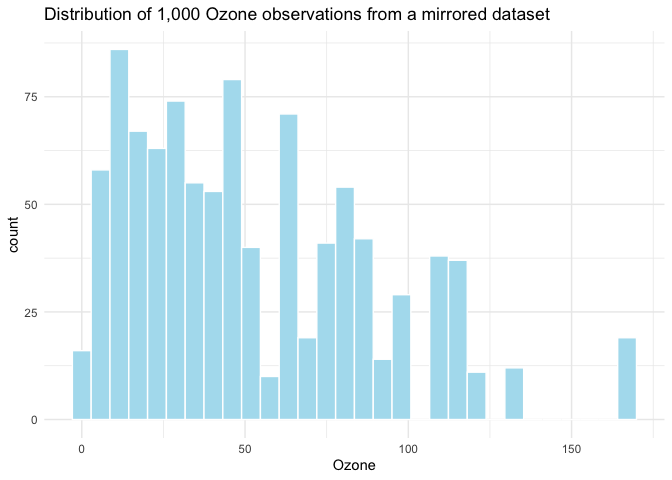
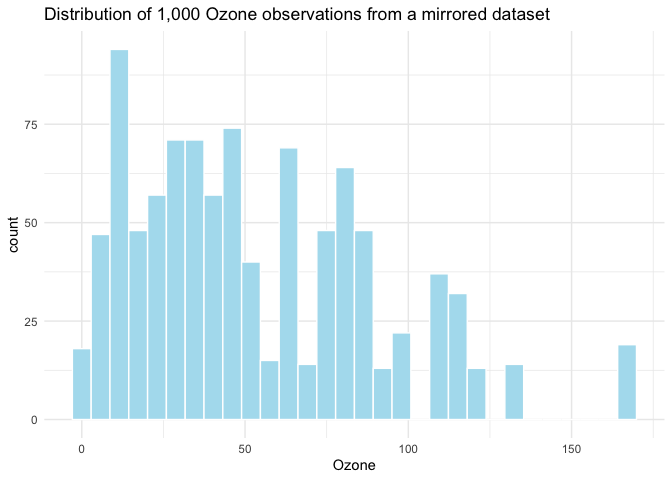
~I don't know what's going on~

diff --git a/README.md b/README.md
@@ -82,7 +82,7 @@ ggplot(air_mirror$simulated_df) +
   theme_minimal() +
   labs(title = "Distribution of 1,000 Ozone observations from a mirrored dataset")
 #> `stat_bin()` using `bins = 30`. Pick better value with `binwidth`.
-#> Warning: Removed 12 rows containing non-finite values (`stat_bin()`).
+#> Warning: Removed 15 rows containing non-finite values (`stat_bin()`).
 ```
 
 <img src="man/figures/README-example3-1.png" width="100%" />
